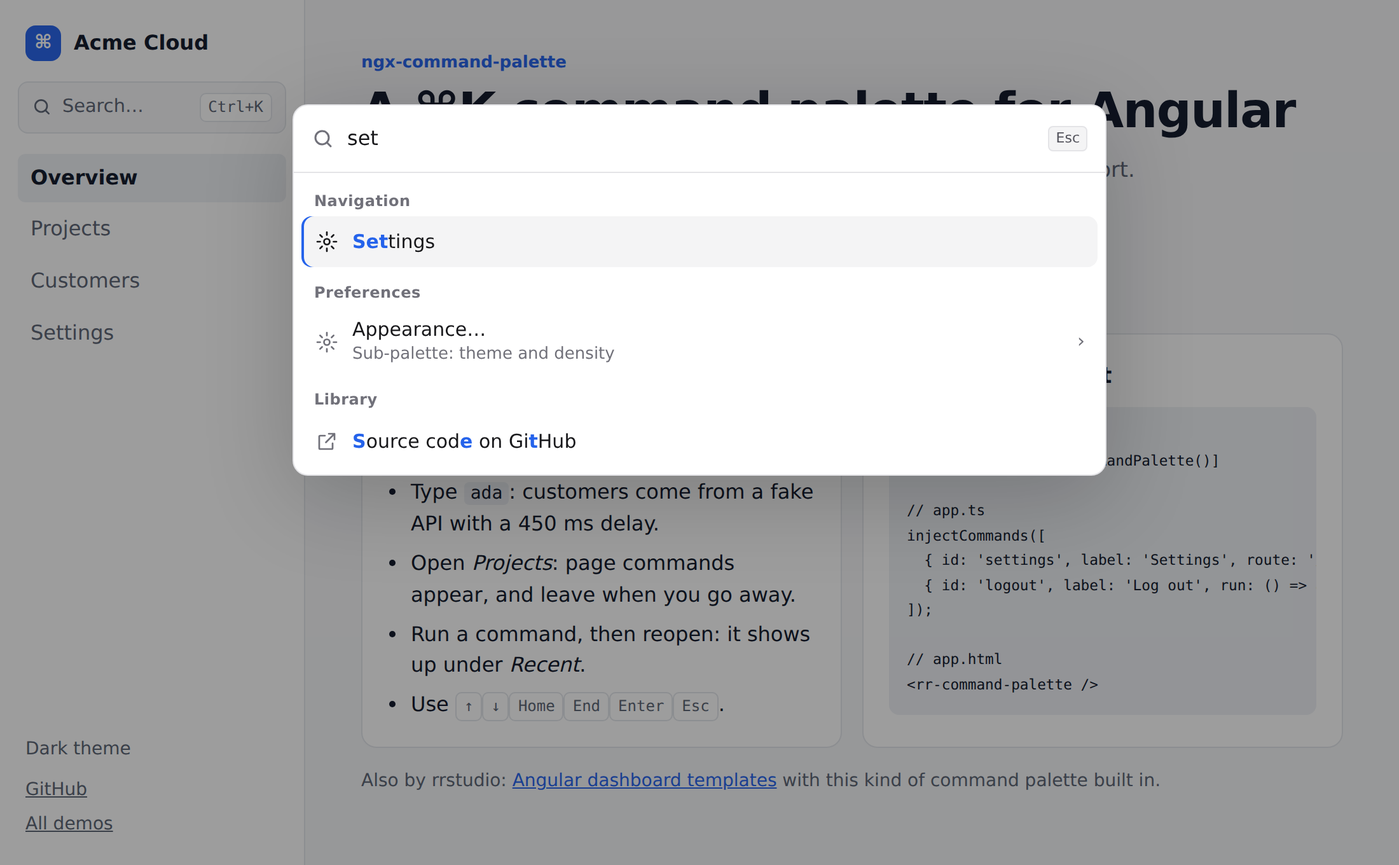
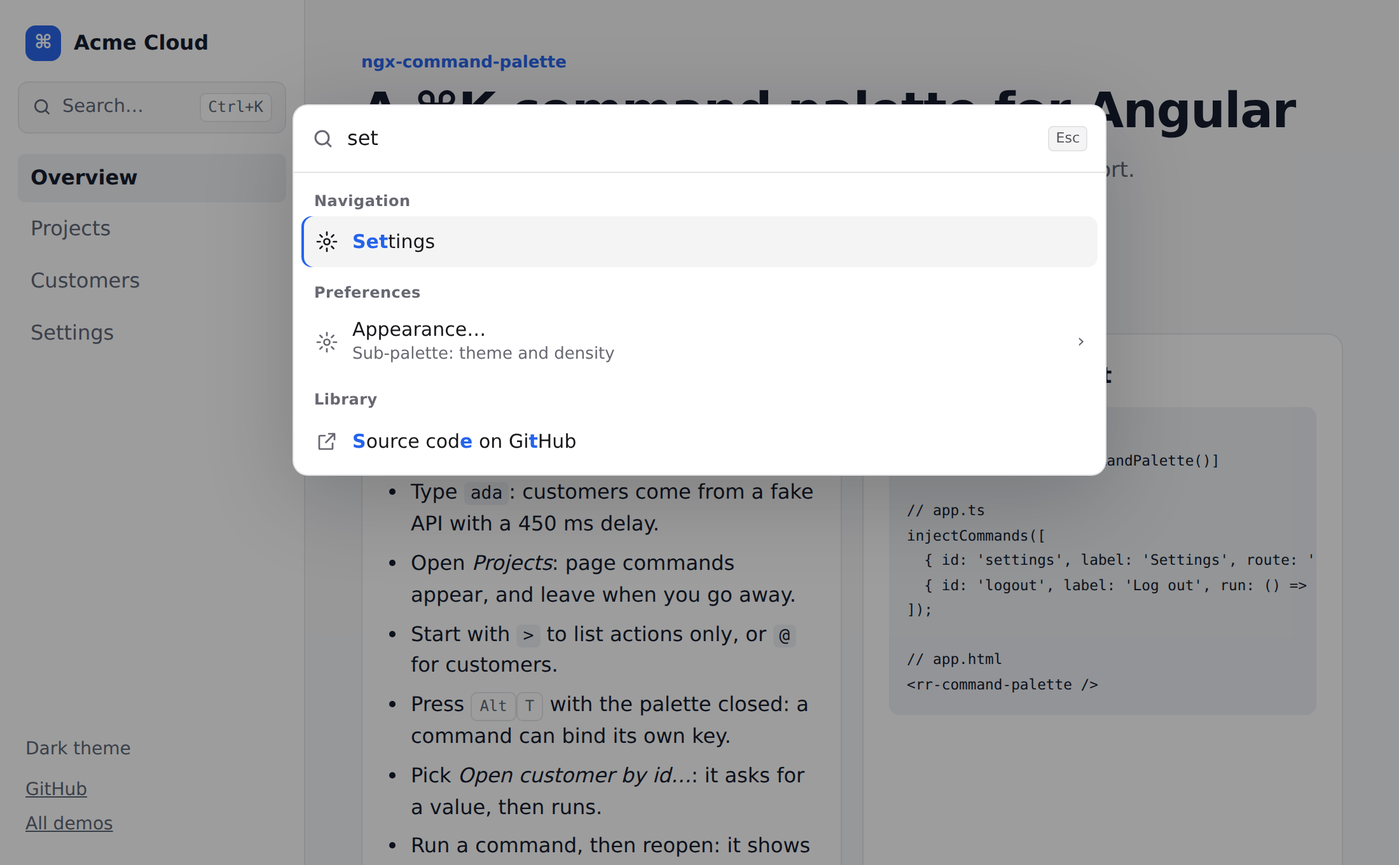
Add recipes, issue and PR templates, and refresh screenshots

Changed region(s): [[0.2473, 0.8956, 0.8345, 0.9882], [0.2782, 0.8029, 0.5873, 0.8647], [0.2782, 0.7103, 0.5873, 0.7721]]

diff --git a/README.md b/README.md
@@ -27,8 +27,8 @@ standalone components, signals, zoneless-ready and **no dependencies besides Ang
 - Custom **templates** for items and the empty state
 - No browser globals at import time (SSR friendly), works with or without zone.js
 
-| Light | Dark |
-| --- | --- |
+| Light                                                                                                             | Dark                                                                                                            |
+| ----------------------------------------------------------------------------------------------------------------- | --------------------------------------------------------------------------------------------------------------- |
 | ![Light theme](https://raw.githubusercontent.com/rrstudioapps/ngx-command-palette/main/docs/screenshot-light.png) | ![Dark theme](https://raw.githubusercontent.com/rrstudioapps/ngx-command-palette/main/docs/screenshot-dark.png) |
 
 ## Installation
@@ -48,10 +48,7 @@ Requires Angular 21 or 22 (`@angular/core`, `@angular/common`, `@angular/router`
 import { provideCommandPalette } from '@rrstudioapps/ngx-command-palette';
 
 export const appConfig: ApplicationConfig = {
-  providers: [
-    provideRouter(routes),
-    provideCommandPalette({ shortcut: 'mod+k' }),
-  ],
+  providers: [provideRouter(routes), provideCommandPalette({ shortcut: 'mod+k' })],
 };
 ```
 
@@ -76,7 +73,13 @@ export class App {
   constructor() {
     injectCommands([
       { id: 'home', label: 'Home', group: 'Navigation', route: '/' },
-      { id: 'settings', label: 'Settings', group: 'Navigation', route: '/settings', keywords: ['preferences'] },
+      {
+        id: 'settings',
+        label: 'Settings',
+        group: 'Navigation',
+        route: '/settings',
+        keywords: ['preferences'],
+      },
       { id: 'logout', label: 'Log out', icon: '🚪', run: () => this.auth.logout() },
     ]);
   }
@@ -89,7 +92,7 @@ export class App {
 Pass a signal to keep them in sync with your state:
 
 ```ts
-@Component({ /* … */ })
+@Component({/* … */})
 export class ProjectsPage {
   projects = signal<Project[]>([]);
 
@@ -135,16 +138,32 @@ injectCommandProvider({
 
 ### `provideCommandPalette(options?)`
 
-| Option | Type | Default | Description |
-| --- | --- | --- | --- |
-| `shortcut` | `string \| string[]` | `'mod+k'` | Toggle shortcut(s). `mod` is ⌘ on macOS/iOS and Ctrl elsewhere. Examples: `'ctrl+shift+p'`, `'/'`. Shortcuts without Ctrl/⌘/Alt are ignored while typing in a field. |
-| `theme` | `'light' \| 'dark' \| 'auto'` | `'auto'` | `auto` follows `prefers-color-scheme`. |
-| `recent` | `{ max?, storageKey? } \| false` | `{ max: 5, storageKey: 'rr-cp:recent' }` | "Recent" section shown when the query is empty. |
-| `debounceMs` | `number` | `200` | Debounce for async providers. |
-| `maxResults` | `number` | `50` | Max local results for a non-empty query. |
-| `maxEmptyResults` | `number` | `100` | Max commands listed when the search is empty (recents not counted). The rest is still found by typing. See [Many commands](#many-commands). |
-| `filter` | `(query, command) => { score, indices } \| null` | built-in fuzzy search | Your own matching and ranking of local commands. See [Custom search](#custom-search). |
-| `labels` | `Partial<CommandPaletteLabels>` | English | All texts, for translations: `placeholder`, `dialog`, `listbox`, `empty`, `loading`, `recent`, `defaultGroup`, `results` (`'{count} results'`), `closeHint`, `back`, `level` (`'{name}: {count} results'`), `submenu`. |
+| Option            | Type                                             | Default                                  | Description                                                                                                                                                                                                                                                                           |
+| ----------------- | ------------------------------------------------ | ---------------------------------------- | ------------------------------------------------------------------------------------------------------------------------------------------------------------------------------------------------------------------------------------------------------------------------------------- |
+| `shortcut`        | `string \| string[]`                             | `'mod+k'`                                | Toggle shortcut(s). `mod` is ⌘ on macOS/iOS and Ctrl elsewhere. Examples: `'ctrl+shift+p'`, `'/'`. Shortcuts without Ctrl/⌘/Alt are ignored while typing in a field.                                                                                                                  |
+| `theme`           | `'light' \| 'dark' \| 'auto'`                    | `'auto'`                                 | `auto` follows `prefers-color-scheme`.                                                                                                                                                                                                                                                |
+| `recent`          | `{ max?, storageKey?, rank? } \| false`          | `{ max: 5, storageKey: 'rr-cp:recent' }` | "Recent" section shown when the query is empty. `rank: 'frequent'` orders it by how often and how recently commands ran (count halves every 7 days).                                                                                                                                  |
+| `debounceMs`      | `number`                                         | `200`                                    | Debounce for async providers.                                                                                                                                                                                                                                                         |
+| `maxResults`      | `number`                                         | `50`                                     | Max local results for a non-empty query.                                                                                                                                                                                                                                              |
+| `maxEmptyResults` | `number`                                         | `100`                                    | Max commands listed when the search is empty (recents not counted). The rest is still found by typing. See [Many commands](#many-commands).                                                                                                                                           |
+| `filter`          | `(query, command) => { score, indices } \| null` | built-in fuzzy search                    | Your own matching and ranking of local commands. See [Custom search](#custom-search).                                                                                                                                                                                                 |
+| `prefixes`        | `{ prefix, groups?, kind? }[]`                   | `[]`                                     | Search modes. See [Prefix modes](#prefix-modes).                                                                                                                                                                                                                                      |
+| `labels`          | `Partial<CommandPaletteLabels>`                  | English                                  | All texts, for translations: `placeholder`, `dialog`, `listbox`, `empty`, `loading`, `recent`, `pinned`, `defaultGroup`, `results` (`'{count} results'`), `closeHint`, `back`, `level` (`'{name}: {count} results'`), `submenu`, `prompt` (`'{name}: type a value and press Enter'`). |
+
+### Prefix modes
+
+Start the search with a character to narrow the list, like `>` in VS Code. The prefix is removed from the
+search text (and from `ctx.query`); the recents are not shown and async providers only run when the mode allows them.
+
+```ts
+provideCommandPalette({
+  prefixes: [
+    { prefix: '>', kind: 'action' }, // only commands that run a function
+    { prefix: '/', kind: 'route' }, // only routes
+    { prefix: '#', groups: ['Customers'] }, // only these sections (and providers)
+  ],
+});
+```
 
 ### Many commands
 
@@ -207,55 +226,58 @@ injectCommands([
 
 ### `Command`
 
-| Field | Type | Description |
-| --- | --- | --- |
-| `id` | `string` | Unique and stable (used for recents). |
-| `label` | `string` | Shown and searched. |
-| `group` | `string?` | Section. Default: `labels.defaultGroup`. |
-| `description` | `string?` | Second line, searched with a lower weight. |
-| `icon` | `string \| TemplateRef?` | Emoji/text/icon-font ligature, or a template (e.g. an SVG). |
-| `shortcut` | `string[]?` | Keys shown on the right, e.g. `['⌘', 'S']`. Display only. |
-| `keywords` | `string[]?` | Extra search terms, not shown. |
-| `disabled` | `boolean?` | Shown but not selectable. |
-| `children` | `Command[]?` | Makes it a parent: selecting it opens a sub-palette with these commands instead of running something. See [Sub-palettes](#sub-palettes). |
-| `hidden` | `boolean \| (() => boolean)?` | Not listed and not searched. A function or a signal hides it depending on your app state, e.g. `hidden: () => !user()`. |
-| `route` + `navigationExtras` | `string \| any[]`, `NavigationExtras?` | Navigate with the Angular router… |
-| `run` | `(ctx: { query }) => void \| Promise` | …or run a function. |
+| Field                        | Type                                          | Description                                                                                                                                                                                                                                                                                                                                                              |
+| ---------------------------- | --------------------------------------------- | ------------------------------------------------------------------------------------------------------------------------------------------------------------------------------------------------------------------------------------------------------------------------------------------------------------------------------------------------------------------------ |
+| `id`                         | `string`                                      | Unique and stable (used for recents).                                                                                                                                                                                                                                                                                                                                    |
+| `label`                      | `string`                                      | Shown and searched.                                                                                                                                                                                                                                                                                                                                                      |
+| `group`                      | `string?`                                     | Section. Default: `labels.defaultGroup`.                                                                                                                                                                                                                                                                                                                                 |
+| `description`                | `string?`                                     | Second line, searched with a lower weight.                                                                                                                                                                                                                                                                                                                               |
+| `icon`                       | `string \| TemplateRef?`                      | Emoji/text/icon-font ligature, or a template (e.g. an SVG).                                                                                                                                                                                                                                                                                                              |
+| `shortcut`                   | `string[]?`                                   | Keys shown on the right, e.g. `['⌘', 'S']`. Display only: use `hotkey` to bind a key.                                                                                                                                                                                                                                                                                    |
+| `hotkey`                     | `string \| string[]?`                         | Key combination(s) that run the command even when the palette is closed, e.g. `'mod+s'`. It needs Ctrl, ⌘ or Alt; Alt-only combinations do not fire while typing in a text field (on macOS Alt types special characters), Ctrl and ⌘ ones do. Ignored for parents, disabled/hidden commands and while the palette is open. Shown on the row when there is no `shortcut`. |
+| `keywords`                   | `string[]?`                                   | Extra search terms, not shown.                                                                                                                                                                                                                                                                                                                                           |
+| `disabled`                   | `boolean?`                                    | Shown but not selectable.                                                                                                                                                                                                                                                                                                                                                |
+| `children`                   | `Command[]?`                                  | Makes it a parent: selecting it opens a sub-palette with these commands instead of running something. See [Sub-palettes](#sub-palettes).                                                                                                                                                                                                                                 |
+| `hidden`                     | `boolean \| (() => boolean)?`                 | Not listed and not searched. A function or a signal hides it depending on your app state, e.g. `hidden: () => !user()`.                                                                                                                                                                                                                                                  |
+| `pinned`                     | `boolean \| (() => boolean)?`                 | Also listed in a "Pinned" section at the top while the search is empty (and not repeated in Recent). A function or a signal pins it depending on your app state.                                                                                                                                                                                                         |
+| `route` + `navigationExtras` | `string \| any[]`, `NavigationExtras?`        | Navigate with the Angular router…                                                                                                                                                                                                                                                                                                                                        |
+| `run`                        | `(ctx: { query, value? }) => void \| Promise` | …or run a function.                                                                                                                                                                                                                                                                                                                                                      |
+| `prompt`                     | `string?`                                     | With `run`: asks for a value first. Selecting the command opens a second step whose field has this placeholder; Enter runs it with the text in `ctx.value` (nothing happens while empty), Backspace or the back button leaves the step. Example: `{ id: 'user', label: 'Go to user', prompt: 'User id…', run: ({ value }) => router.navigate(['/users', value]) }`.      |
 
 ### `CommandPaletteService`
 
-| Member | Description |
-| --- | --- |
-| `isOpen`, `query`, `loading` | Read-only signals. |
-| `commands`, `sections` | Registered commands and the filtered, grouped results of the current level (signals). |
-| `path` | The sub-palettes currently open, outermost first (signal). |
-| `back(levels?)` | Goes back one or more levels of a sub-palette; returns `false` at the top level. |
-| `open(query?)`, `close()`, `toggle()` | Open/close programmatically (e.g. from a "Search…" button). |
-| `setQuery(query)` | Change the search text. |
+| Member                                      | Description                                                                            |
+| ------------------------------------------- | -------------------------------------------------------------------------------------- |
+| `isOpen`, `query`, `loading`                | Read-only signals.                                                                     |
+| `commands`, `sections`                      | Registered commands and the filtered, grouped results of the current level (signals).  |
+| `path`                                      | The sub-palettes currently open, outermost first (signal).                             |
+| `back(levels?)`                             | Goes back one or more levels of a sub-palette; returns `false` at the top level.       |
+| `open(query?)`, `close()`, `toggle()`       | Open/close programmatically (e.g. from a "Search…" button).                            |
+| `setQuery(query)`                           | Change the search text.                                                                |
 | `register(commands \| signal, destroyRef?)` | Returns an unregister function. Inside an injection context it unregisters on destroy. |
-| `registerProvider(provider, destroyRef?)` | Same, for async providers. |
-| `execute(command)` | Run a command as if selected. |
-| `clearRecent()` | Forget the recents. |
+| `registerProvider(provider, destroyRef?)`   | Same, for async providers.                                                             |
+| `execute(command)`                          | Run a command as if selected.                                                          |
+| `clearRecent()`                             | Forget the recents.                                                                    |
 
 `injectCommands(commands)` and `injectCommandProvider(provider)` are shortcuts for
 `register`/`registerProvider` bound to the current component.
 
 ### `CommandProvider`
 
-| Field | Type | Description |
-| --- | --- | --- |
-| `id`, `group` | `string` | Provider id and section title. |
+| Field                   | Type                                          | Description                                                       |
+| ----------------------- | --------------------------------------------- | ----------------------------------------------------------------- |
+| `id`, `group`           | `string`                                      | Provider id and section title.                                    |
 | `search(query, signal)` | `Promise<Command[]> \| Observable<Command[]>` | `signal` is aborted when the query changes or the palette closes. |
-| `minQueryLength` | `number?` | Default `1`. |
-| `debounceMs` | `number?` | Overrides the global debounce. |
+| `minQueryLength`        | `number?`                                     | Default `1`.                                                      |
+| `debounceMs`            | `number?`                                     | Overrides the global debounce.                                    |
 
 Async results keep the order returned by your API. Route commands from a provider are kept
 in "Recent" even when they are no longer returned by the search.
 
 ### `<rr-command-palette>`
 
-| Input | Description |
-| --- | --- |
+| Input   | Description                                                                            |
+| ------- | -------------------------------------------------------------------------------------- |
 | `theme` | Overrides the configured theme, e.g. `[theme]="appTheme()"` to follow your own toggle. |
 
 The component also exposes `shortcutLabel` (`'⌘K'` or `'Ctrl+K'`) for your search button:
@@ -268,9 +290,8 @@ The component also exposes `shortcutLabel` (`'⌘K'` or `'Ctrl+K'`) for your sea
   <ng-template rrCommandItem let-command let-segments="segments" let-active="active">
     <my-icon [name]="command.id" />
     <span>
-      @for (s of segments; track $index) {
-        @if (s.match) { <b>{{ s.text }}</b> } @else { {{ s.text }} }
-      }
+      @for (s of segments; track $index) { @if (s.match) { <b>{{ s.text }}</b> } @else { {{ s.text
+      }} } }
     </span>
     @if (active) { <span class="hint">↵</span> }
   </ng-template>
@@ -290,6 +311,96 @@ The item context also has `result` (score and indices) and `query`.
 splits a string for highlighting. `parseShortcut`, `matchesShortcut` and `formatShortcut`
 handle shortcut strings. All of them are exported if you want the same behaviour elsewhere.
 
+## Recipes
+
+**Translations (i18n).** Pass every text through `labels` (`t` stands for your translation function; the library does not need `@angular/localize`). Translate your own command labels the same way when you build them:
+
+```ts
+provideCommandPalette({
+  labels: {
+    placeholder: t('palette.placeholder'),
+    empty: t('palette.empty'),
+    recent: t('palette.recent'),
+  },
+});
+```
+
+**Commands that depend on the current page.** Register from the component that owns the page: they are removed when it is destroyed.
+
+```ts
+@Component({/* … */})
+export class InvoicePage {
+  protected readonly invoice = input.required<Invoice>();
+  constructor() {
+    injectCommands(
+      computed<Command[]>(() => [
+        { id: 'invoice.send', label: `Send ${this.invoice().number}`, run: () => this.send() },
+      ]),
+    );
+  }
+}
+```
+
+**A button that opens the palette.** Inject `CommandPaletteService` as `palette` and show the shortcut label of the component:
+
+```html
+<button (click)="palette.open()">Search <kbd>{{ cp.shortcutLabel }}</kbd></button>
+<rr-command-palette #cp />
+```
+
+**Restricting commands by permission.** Use `hidden` with a signal so the command disappears from the list, the search and the recents:
+
+```ts
+{ id: 'admin.users', label: 'Manage users', route: '/admin/users', hidden: () => !auth.isAdmin() }
+```
+
+**Matching your UI kit.** The palette is self-contained and styled with CSS variables (see [Theming](#theming)), so you map them to your kit's tokens instead of wrapping it in another dialog. These tokens follow the kit's light/dark switch, so one block covers both themes. Token names checked against Angular Material 22.2, PrimeNG 22.1 (Aura preset) and Bootstrap 5.3.8.
+
+```css
+/* Angular Material (M3 system tokens) */
+.rr-cp {
+  --rr-cp-bg: var(--mat-sys-surface-container-high);
+  --rr-cp-fg: var(--mat-sys-on-surface);
+  --rr-cp-muted: var(--mat-sys-on-surface-variant);
+  --rr-cp-border: var(--mat-sys-outline-variant);
+  --rr-cp-accent: var(--mat-sys-primary);
+  --rr-cp-highlight: var(--mat-sys-primary);
+  --rr-cp-item-active-bg: var(--mat-sys-secondary-container);
+  --rr-cp-radius: var(--mat-sys-corner-extra-large);
+  --rr-cp-backdrop: color-mix(in srgb, var(--mat-sys-scrim) 32%, transparent);
+}
+
+/* PrimeNG (design tokens) */
+.rr-cp {
+  --rr-cp-bg: var(--p-content-background);
+  --rr-cp-fg: var(--p-text-color);
+  --rr-cp-muted: var(--p-text-muted-color);
+  --rr-cp-border: var(--p-content-border-color);
+  --rr-cp-accent: var(--p-primary-color);
+  --rr-cp-highlight: var(--p-primary-color);
+  --rr-cp-highlight-bg: var(--p-highlight-background);
+  --rr-cp-item-active-bg: var(--p-content-hover-background);
+  --rr-cp-radius: var(--p-content-border-radius);
+  --rr-cp-backdrop: var(--p-mask-background);
+}
+
+/* Bootstrap 5.3 (also follows data-bs-theme="dark") */
+.rr-cp {
+  --rr-cp-bg: var(--bs-body-bg);
+  --rr-cp-fg: var(--bs-body-color);
+  --rr-cp-muted: var(--bs-secondary-color);
+  --rr-cp-border: var(--bs-border-color);
+  --rr-cp-accent: var(--bs-primary);
+  --rr-cp-highlight: var(--bs-primary);
+  --rr-cp-item-active-bg: var(--bs-tertiary-bg);
+  --rr-cp-radius: var(--bs-border-radius-lg);
+  --rr-cp-font: var(--bs-body-font-family);
+  --rr-cp-shadow: var(--bs-box-shadow-lg);
+}
+```
+
+Tailwind and shadcn-style setups have no fixed token names (each project defines its own), so map the variables the same way to yours, e.g. `--rr-cp-bg: var(--background)`.
+
 ## Theming
 
 The styles use CSS variables with zero-specificity defaults, so any rule of yours wins.
@@ -308,18 +419,18 @@ Set them on `.rr-cp` (the overlay), and on `.rr-cp[data-theme='dark']` for the d
 }
 ```
 
-| Variable | Purpose |
-| --- | --- |
+| Variable                                                      | Purpose                                |
+| ------------------------------------------------------------- | -------------------------------------- |
 | `--rr-cp-bg`, `--rr-cp-fg`, `--rr-cp-muted`, `--rr-cp-border` | Surface, text, secondary text, borders |
-| `--rr-cp-accent` | Active row marker, spinner |
-| `--rr-cp-item-active-bg` | Active row background |
-| `--rr-cp-highlight`, `--rr-cp-highlight-bg` | Matched characters |
-| `--rr-cp-kbd-bg`, `--rr-cp-kbd-fg` | Shortcut keys |
-| `--rr-cp-backdrop`, `--rr-cp-shadow` | Overlay and dialog shadow |
-| `--rr-cp-font`, `--rr-cp-font-size` | Typography |
-| `--rr-cp-width`, `--rr-cp-max-height`, `--rr-cp-top` | Dialog size and position |
-| `--rr-cp-radius`, `--rr-cp-item-radius` | Corners |
-| `--rr-cp-z-index`, `--rr-cp-duration` | Stacking and animation length |
+| `--rr-cp-accent`                                              | Active row marker, spinner             |
+| `--rr-cp-item-active-bg`                                      | Active row background                  |
+| `--rr-cp-highlight`, `--rr-cp-highlight-bg`                   | Matched characters                     |
+| `--rr-cp-kbd-bg`, `--rr-cp-kbd-fg`                            | Shortcut keys                          |
+| `--rr-cp-backdrop`, `--rr-cp-shadow`                          | Overlay and dialog shadow              |
+| `--rr-cp-font`, `--rr-cp-font-size`                           | Typography                             |
+| `--rr-cp-width`, `--rr-cp-max-height`, `--rr-cp-top`          | Dialog size and position               |
+| `--rr-cp-radius`, `--rr-cp-item-radius`                       | Corners                                |
+| `--rr-cp-z-index`, `--rr-cp-duration`                         | Stacking and animation length          |
 
 Class names (`rr-cp-dialog`, `rr-cp-item`, `rr-cp-item-active`, `rr-cp-match`, `rr-cp-group-label`,
 `rr-cp-empty`, …) are stable too, if you need more than variables.
@@ -345,6 +456,7 @@ npm start            # demo on http://localhost:4200
 npm test             # unit tests (Vitest)
 npm run lint
 npm run build        # library (dist/ngx-command-palette) + demo
+npm run build:demo && npm run e2e   # browser flows and axe-core on the demo (needs Chromium)
 ```
 
 See [CONTRIBUTING.md](CONTRIBUTING.md).

diff --git a/CONTRIBUTING.md b/CONTRIBUTING.md
@@ -20,6 +20,15 @@ npm test
 npm run build
 ```
 
+For changes to the UI or the keyboard behavior, also run the browser checks (keyboard flows and
+axe-core accessibility on the demo, in light and dark). They need a Chromium for `playwright-core`:
+`npx playwright-core install chromium`, or `E2E_CHROMIUM=/path/to/chromium`.
+
+```bash
+npm run build:demo
+npm run e2e
+```
+
 - Keep the library free of runtime dependencies besides Angular.
 - Add or update unit tests for logic changes (`*.spec.ts` next to the code).
 - Keep the palette accessible: check keyboard use and run axe on the demo when you change the template.

diff --git a/.github/ISSUE_TEMPLATE/bug_report.md b/.github/ISSUE_TEMPLATE/bug_report.md
@@ -1,0 +1,17 @@
+---
+name: Bug report
+about: Something does not work as documented
+labels: bug
+---
+
+**What happened**
+
+**What you expected**
+
+**How to reproduce** (a minimal snippet or a StackBlitz link helps)
+
+**Versions**
+
+- `@rrstudioapps/ngx-command-palette`:
+- Angular:
+- Browser / OS:

diff --git a/.github/pull_request_template.md b/.github/pull_request_template.md
@@ -1,0 +1,8 @@
+## What and why
+
+## Checklist
+
+- [ ] `npm run lint`, `npm run typecheck` and `npm test` pass
+- [ ] Tests added or updated
+- [ ] README and CHANGELOG updated when the public API changes
+- [ ] New source files start with the SPDX header

diff --git a/.github/ISSUE_TEMPLATE/feature_request.md b/.github/ISSUE_TEMPLATE/feature_request.md
@@ -1,0 +1,11 @@
+---
+name: Feature request
+about: Suggest an addition
+labels: enhancement
+---
+
+**The problem you want to solve**
+
+**What you would like the API to look like** (a code sketch is welcome)
+
+**Alternatives you tried**
